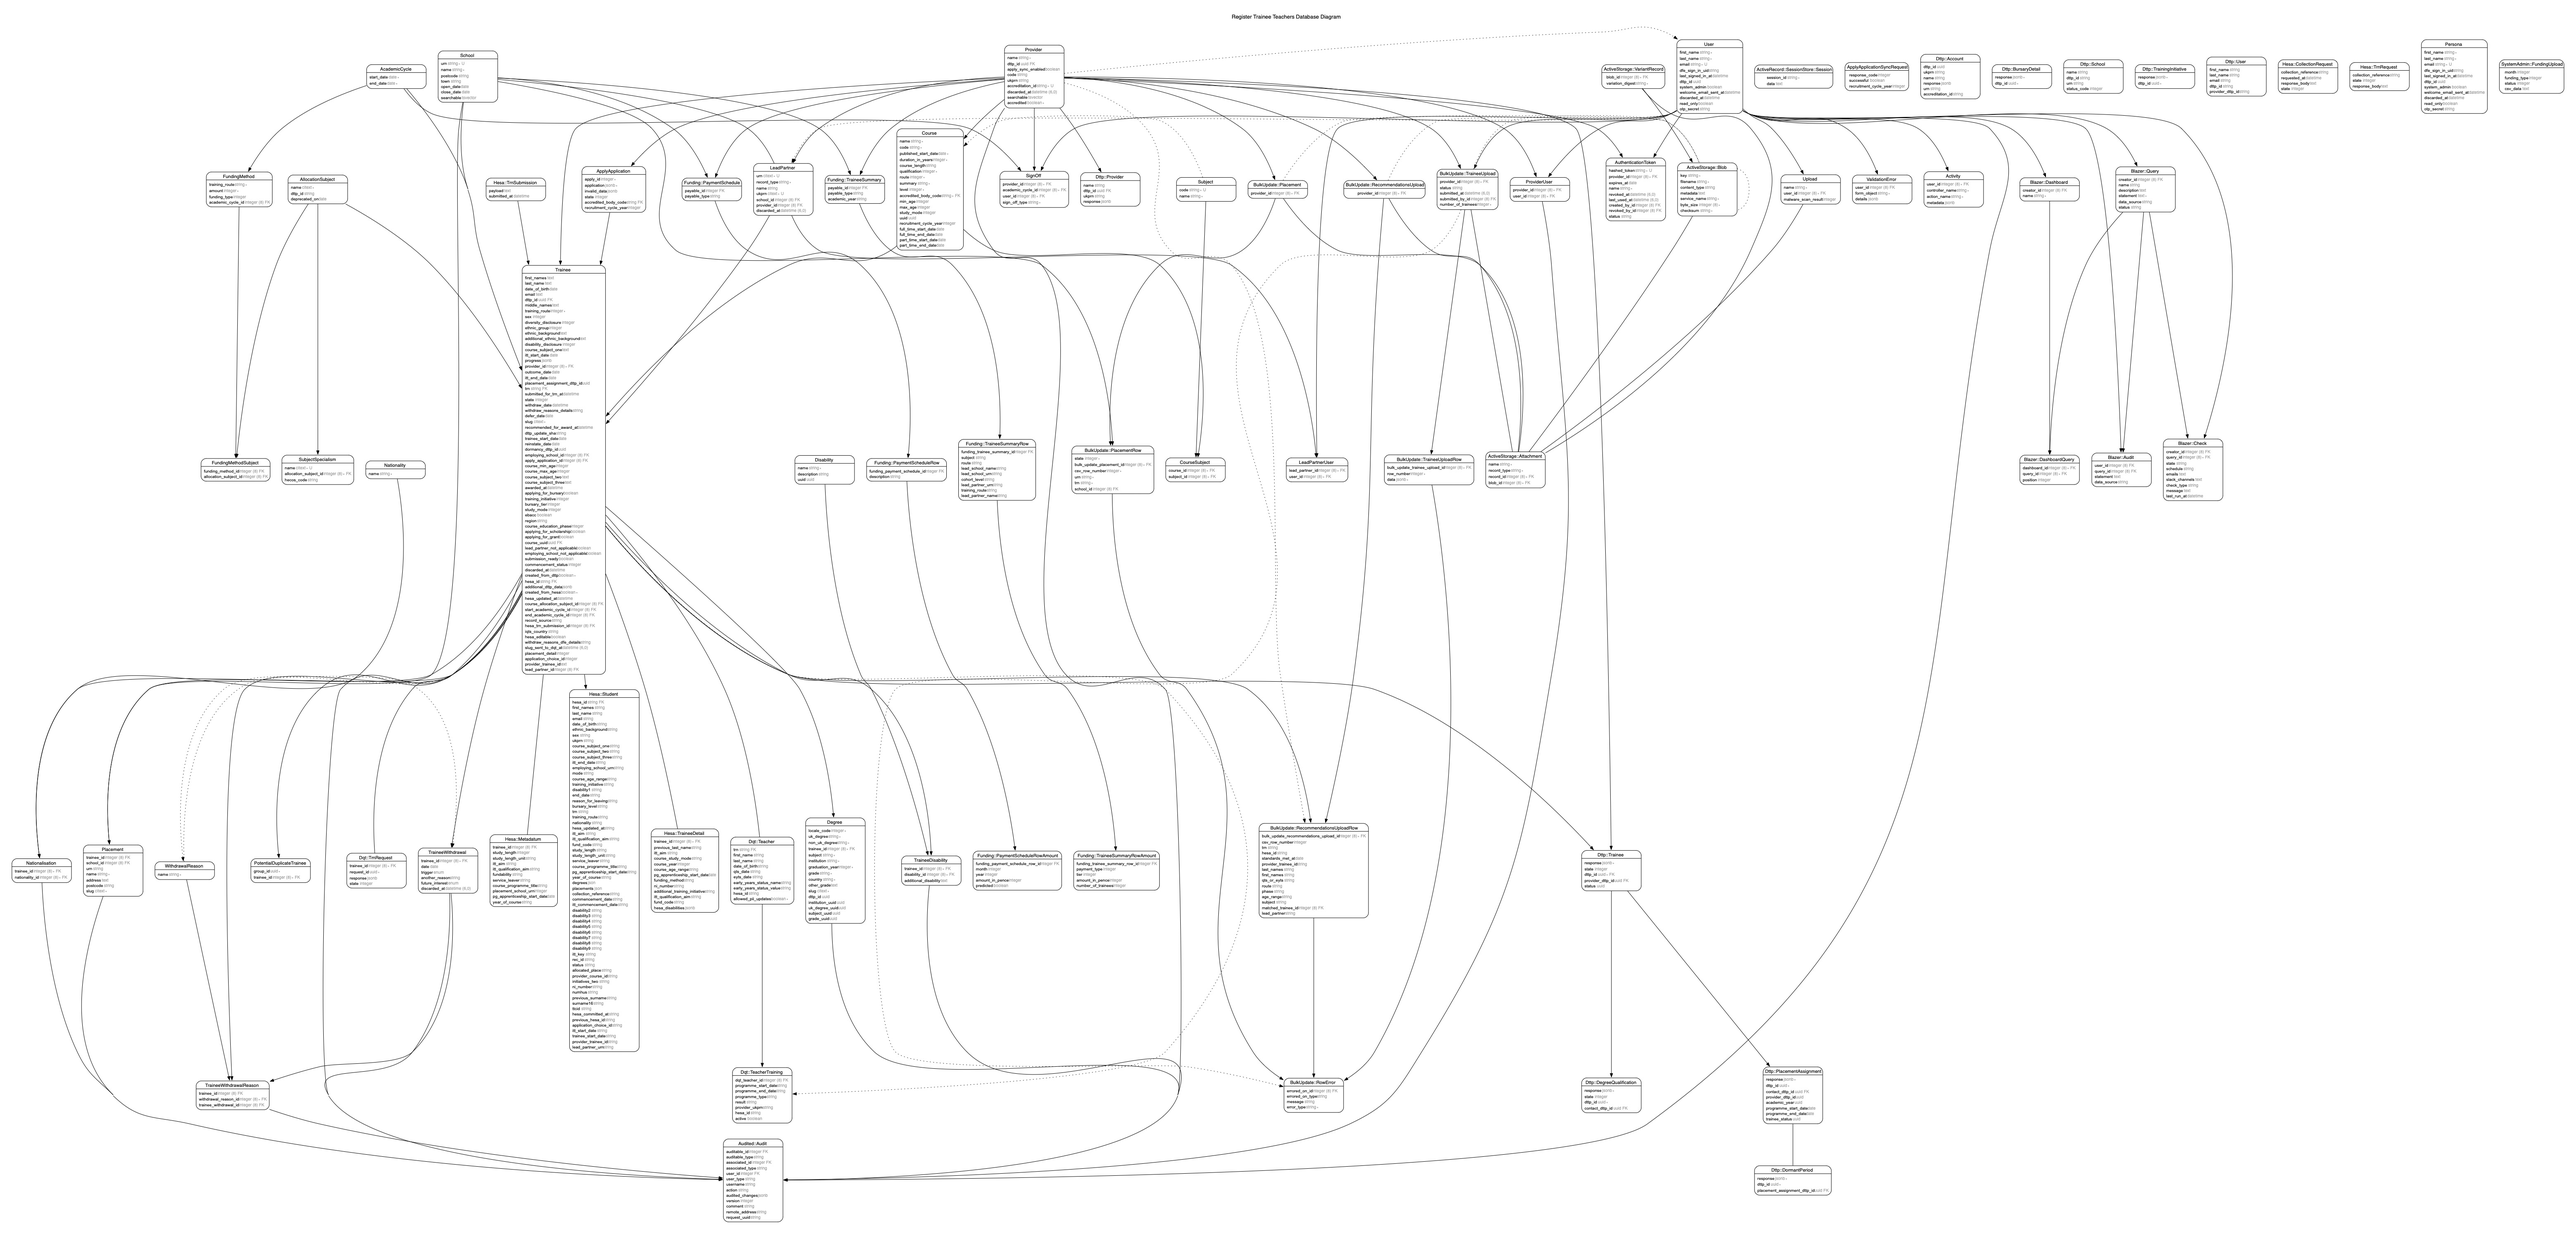
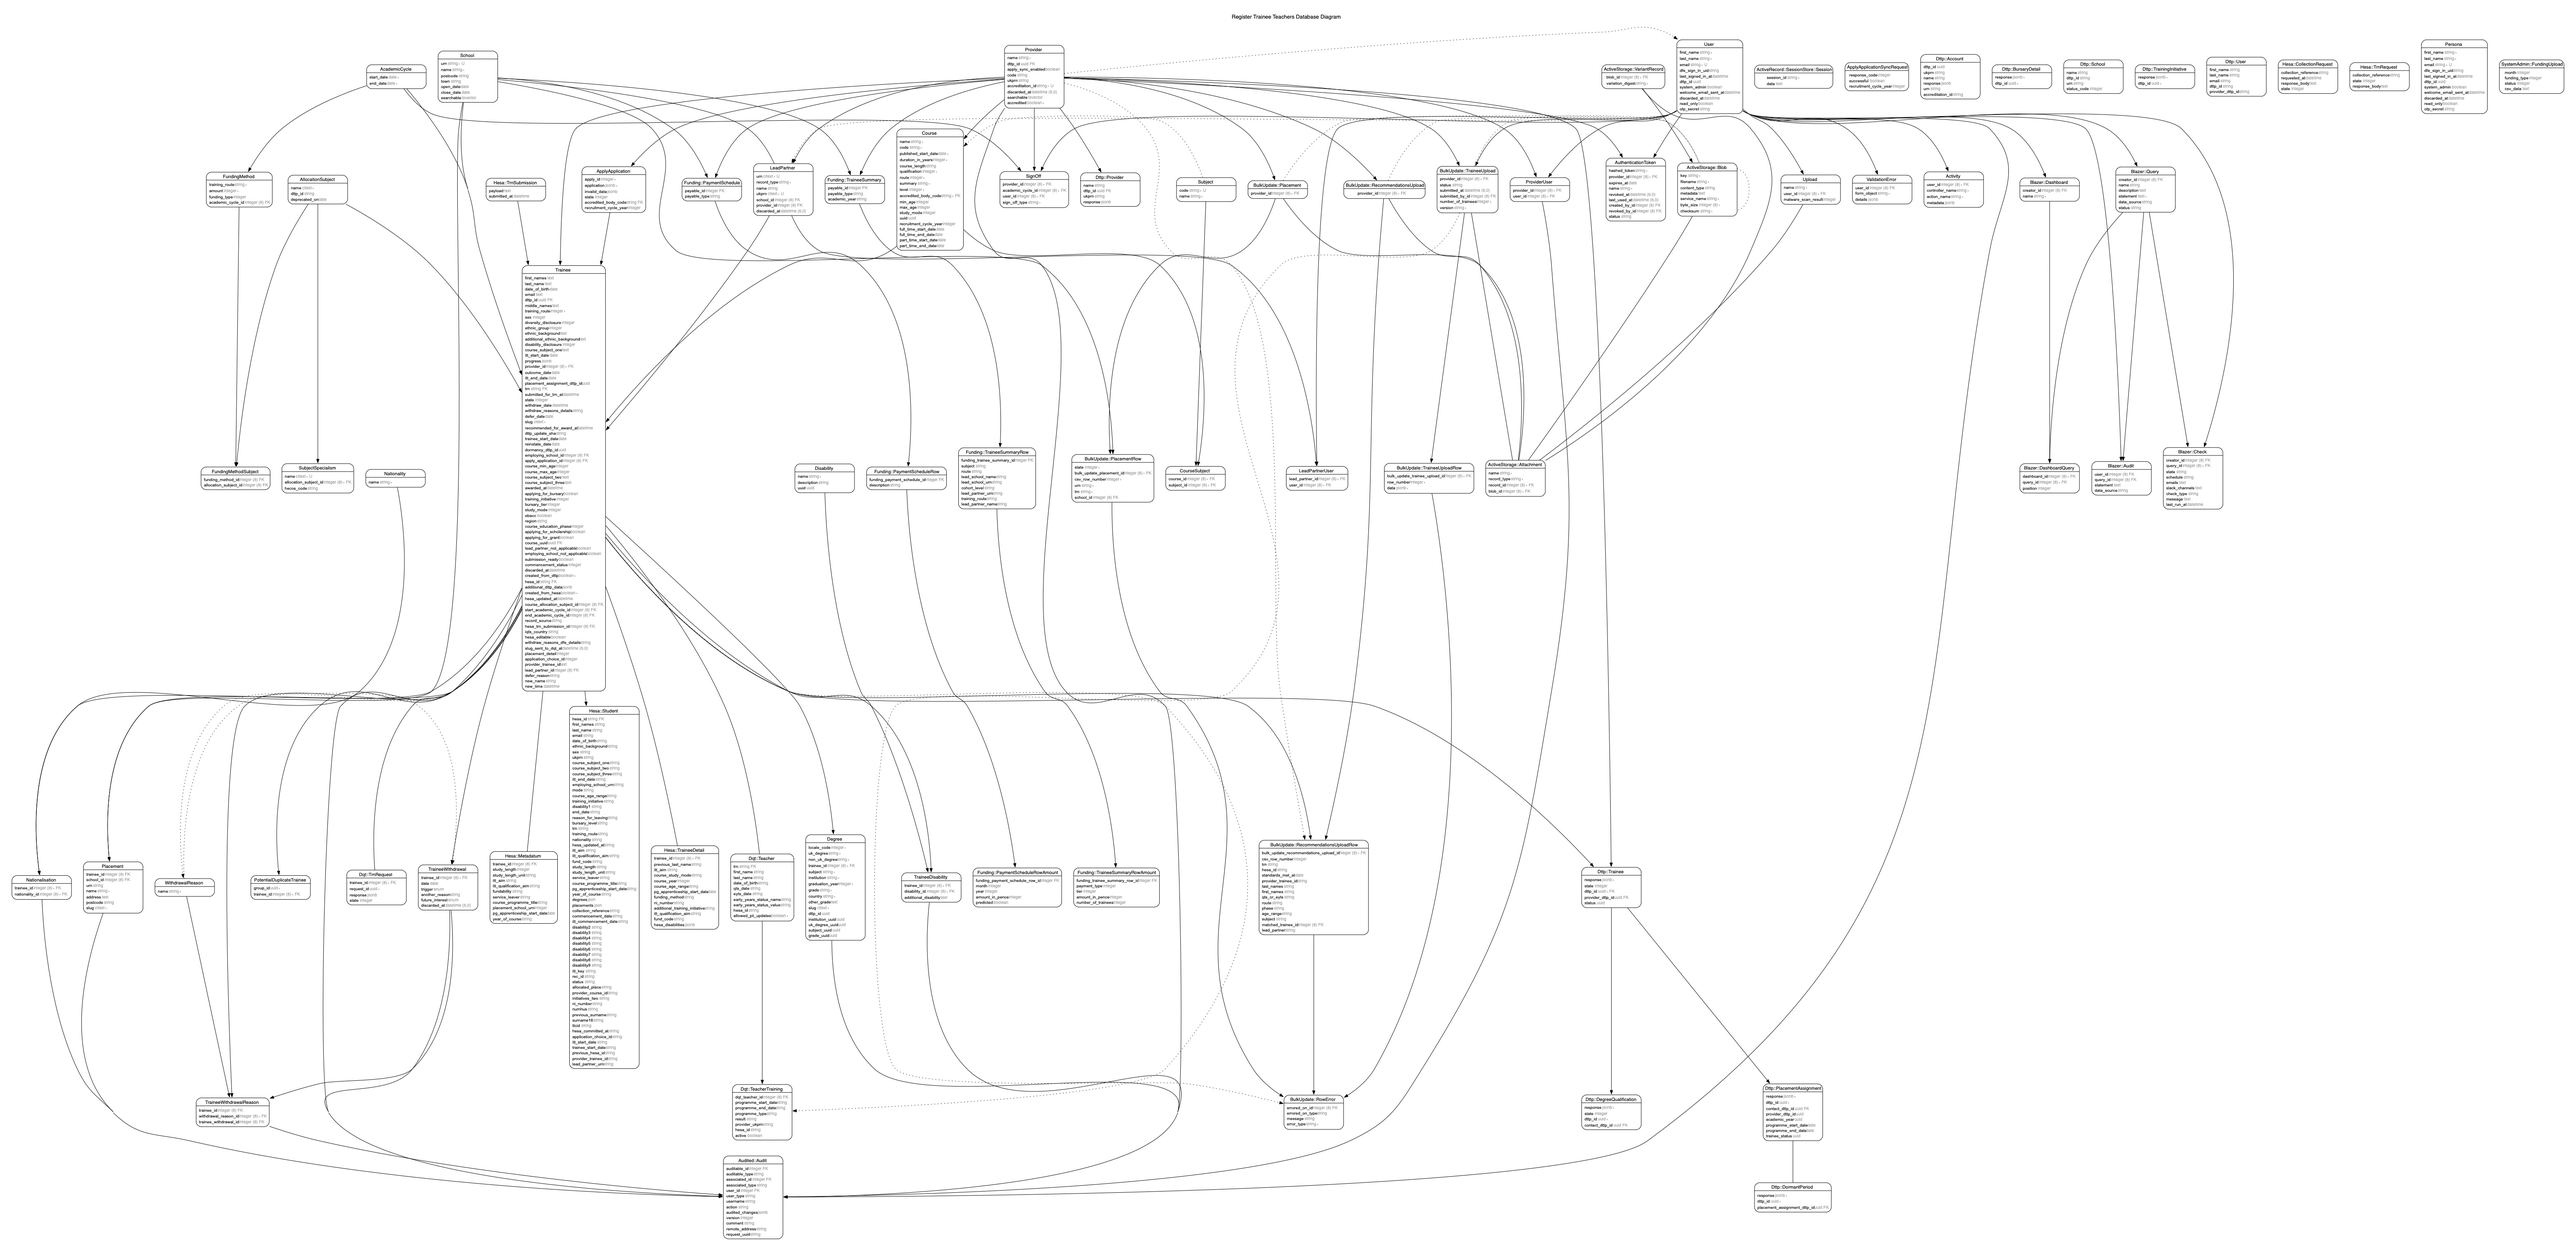
DB Migration: Add new columns to Trainees

diff --git a/db/schema.rb b/db/schema.rb
@@ -10,7 +10,7 @@
 #
 # It's strongly recommended that you check this file into your version control system.
 
-ActiveRecord::Schema[7.2].define(version: 2025_05_23_143758) do
+ActiveRecord::Schema[7.2].define(version: 2025_07_04_091059) do
   # These are extensions that must be enabled in order to support this database
   enable_extension "btree_gist"
   enable_extension "citext"
@@ -993,6 +993,8 @@ ActiveRecord::Schema[7.2].define(version: 2025_05_23_143758) do
     t.text "provider_trainee_id"
     t.bigint "lead_partner_id"
     t.string "defer_reason"
+    t.string "new_name"
+    t.datetime "new_time", precision: nil
     t.index ["apply_application_id"], name: "index_trainees_on_apply_application_id"
     t.index ["course_allocation_subject_id"], name: "index_trainees_on_course_allocation_subject_id"
     t.index ["course_uuid"], name: "index_trainees_on_course_uuid"

diff --git a/app/models/trainee.rb b/app/models/trainee.rb
@@ -43,6 +43,8 @@
 #  last_name                       :text
 #  lead_partner_not_applicable     :boolean          default(FALSE)
 #  middle_names                    :text
+#  new_name                        :string
+#  new_time                        :datetime
 #  outcome_date                    :date
 #  placement_detail                :integer
 #  progress                        :jsonb

diff --git a/spec/serializers/api/v0_1/trainee_serializer_spec.rb b/spec/serializers/api/v0_1/trainee_serializer_spec.rb
@@ -80,6 +80,8 @@ RSpec.describe Api::V01::TraineeSerializer do
         funding_method
         itt_qualification_aim
         state
+        new_name
+        new_time
       ]
     end
 
